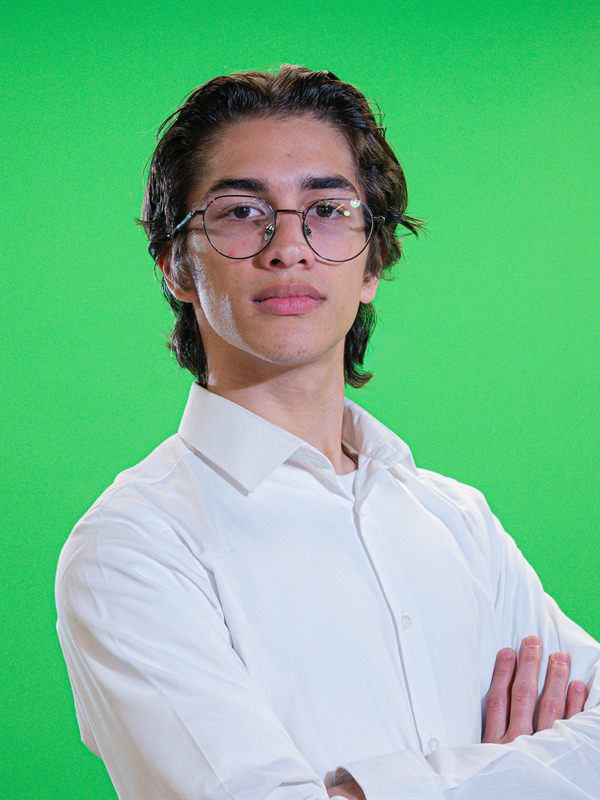
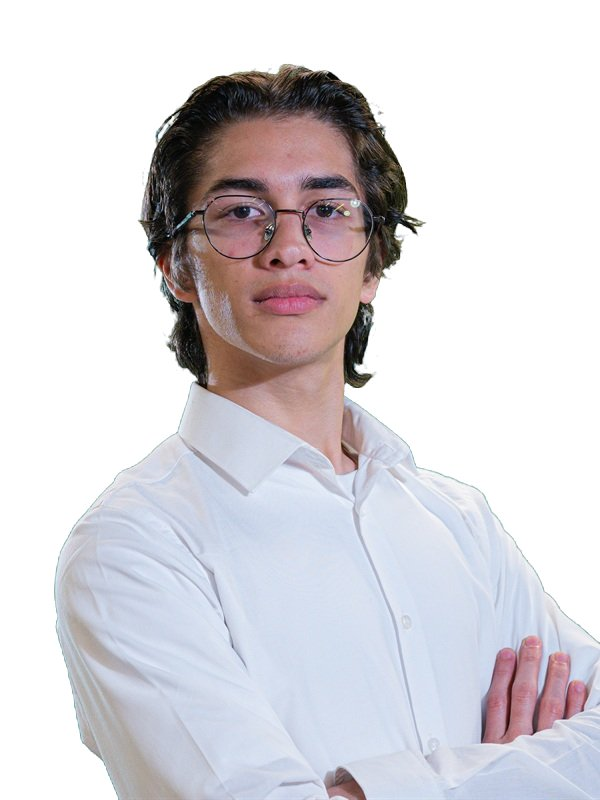
AEUVG-95 Quitar el fondo verde de los retratos y la franja de color

diff --git a/src/app/sobre-aeuvg/page.tsx b/src/app/sobre-aeuvg/page.tsx
@@ -16,17 +16,16 @@ export const metadata = {
     "Misión, visión y junta directiva de la Asociación General de Estudiantes de la Universidad del Valle de Guatemala.",
 };
 
-// Un acento del logo por tarjeta, para que la cuadrícula no se lea plana pese a
-// que todas las fotografías comparten el mismo fondo de estudio.
+// Color de respaldo para las iniciales de quien no tenga fotografía cargada.
 const ACENTOS = [
-  { barra: "bg-primario", inicial: "bg-primario" },
-  { barra: "bg-coral", inicial: "bg-coral" },
-  { barra: "bg-turquesa", inicial: "bg-turquesa" },
-  { barra: "bg-magenta", inicial: "bg-magenta" },
-  { barra: "bg-ambar", inicial: "bg-ambar" },
-  { barra: "bg-cielo", inicial: "bg-cielo" },
-  { barra: "bg-lima", inicial: "bg-lima" },
-  { barra: "bg-lavanda", inicial: "bg-lavanda" },
+  "bg-primario",
+  "bg-coral",
+  "bg-turquesa",
+  "bg-magenta",
+  "bg-ambar",
+  "bg-cielo",
+  "bg-lima",
+  "bg-lavanda",
 ];
 
 function TarjetaIntegrante({
@@ -40,9 +39,9 @@ function TarjetaIntegrante({
 
   return (
     <article className="group border-borde bg-superficie flex flex-col overflow-hidden rounded-[1.25rem] border shadow-sm transition-shadow hover:shadow-lg">
-      <span aria-hidden className={`h-1.5 w-full ${acento.barra}`} />
-
-      <div className="bg-superficie-suave relative aspect-3/4 w-full overflow-hidden">
+      {/* El retrato viene recortado sobre blanco, así que se funde con la
+          tarjeta sin costura visible entre la imagen y el texto. */}
+      <div className="bg-superficie relative aspect-3/4 w-full overflow-hidden">
         {integrante.fotoUrl ? (
           <Image
             src={integrante.fotoUrl}
@@ -54,14 +53,14 @@ function TarjetaIntegrante({
         ) : (
           <span
             aria-hidden
-            className={`${acento.inicial} grid size-full place-items-center text-5xl font-extrabold text-white`}
+            className={`${acento} grid size-full place-items-center text-5xl font-extrabold text-white`}
           >
             {inicialesDeNombre(integrante.nombre)}
           </span>
         )}
       </div>
 
-      <div className="flex flex-1 flex-col px-5 py-4">
+      <div className="border-borde flex flex-1 flex-col border-t px-5 py-4">
         <p className="text-texto text-base leading-snug font-bold break-words">
           {integrante.nombre}
         </p>
